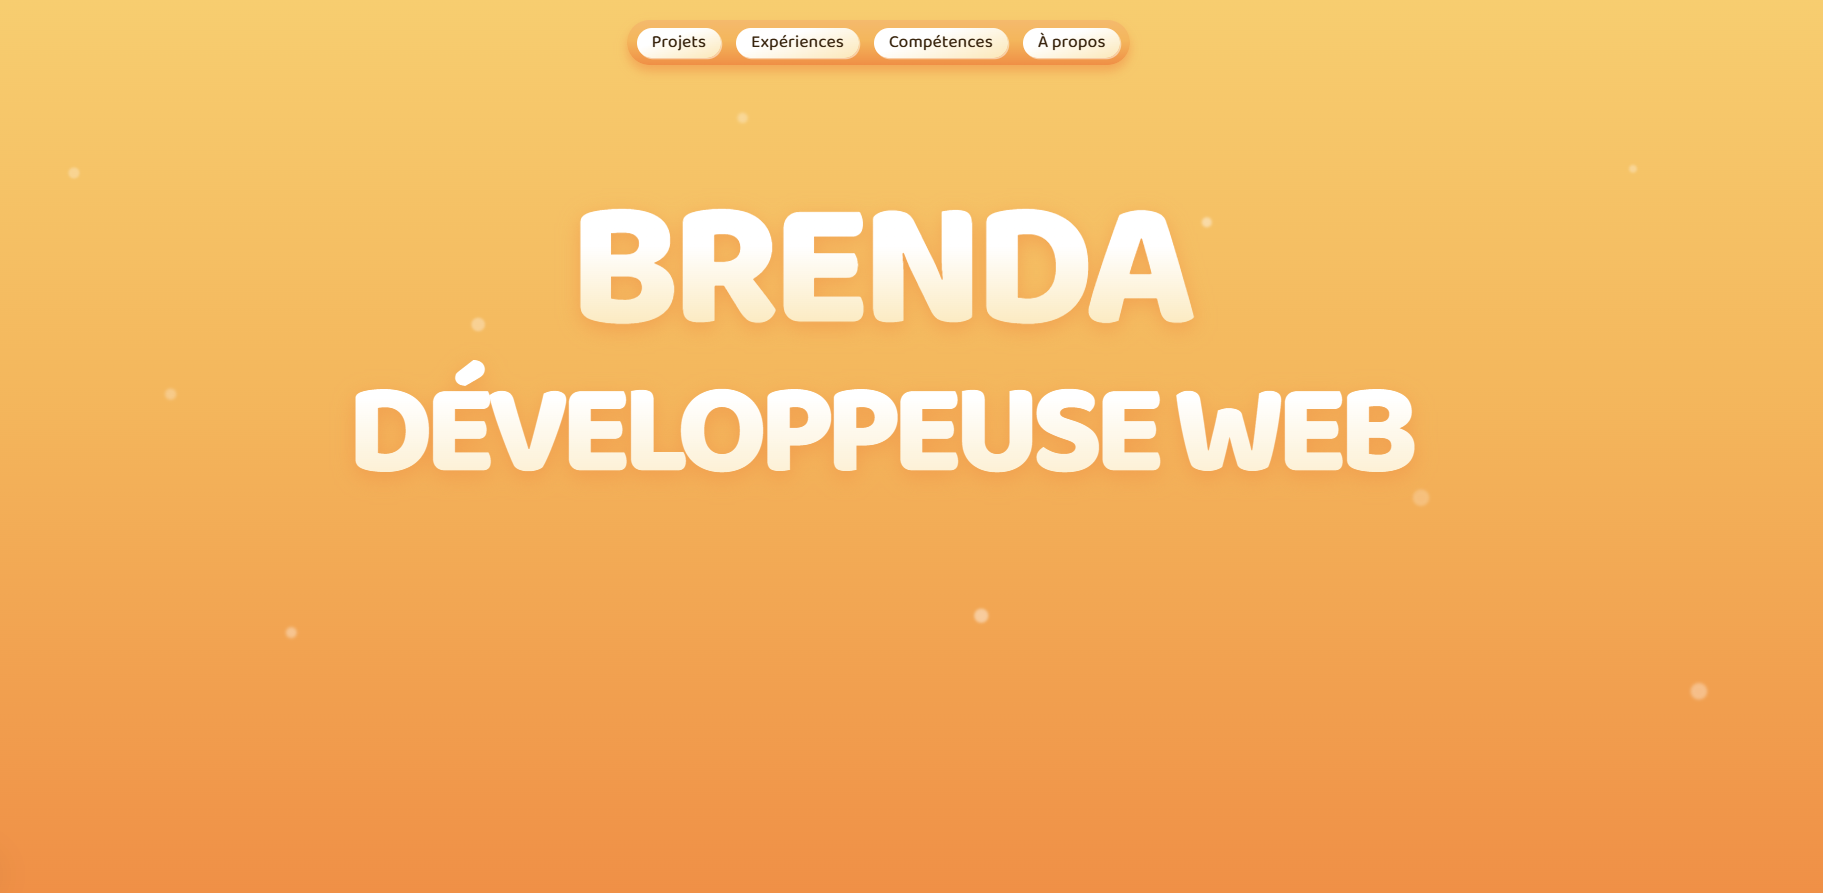
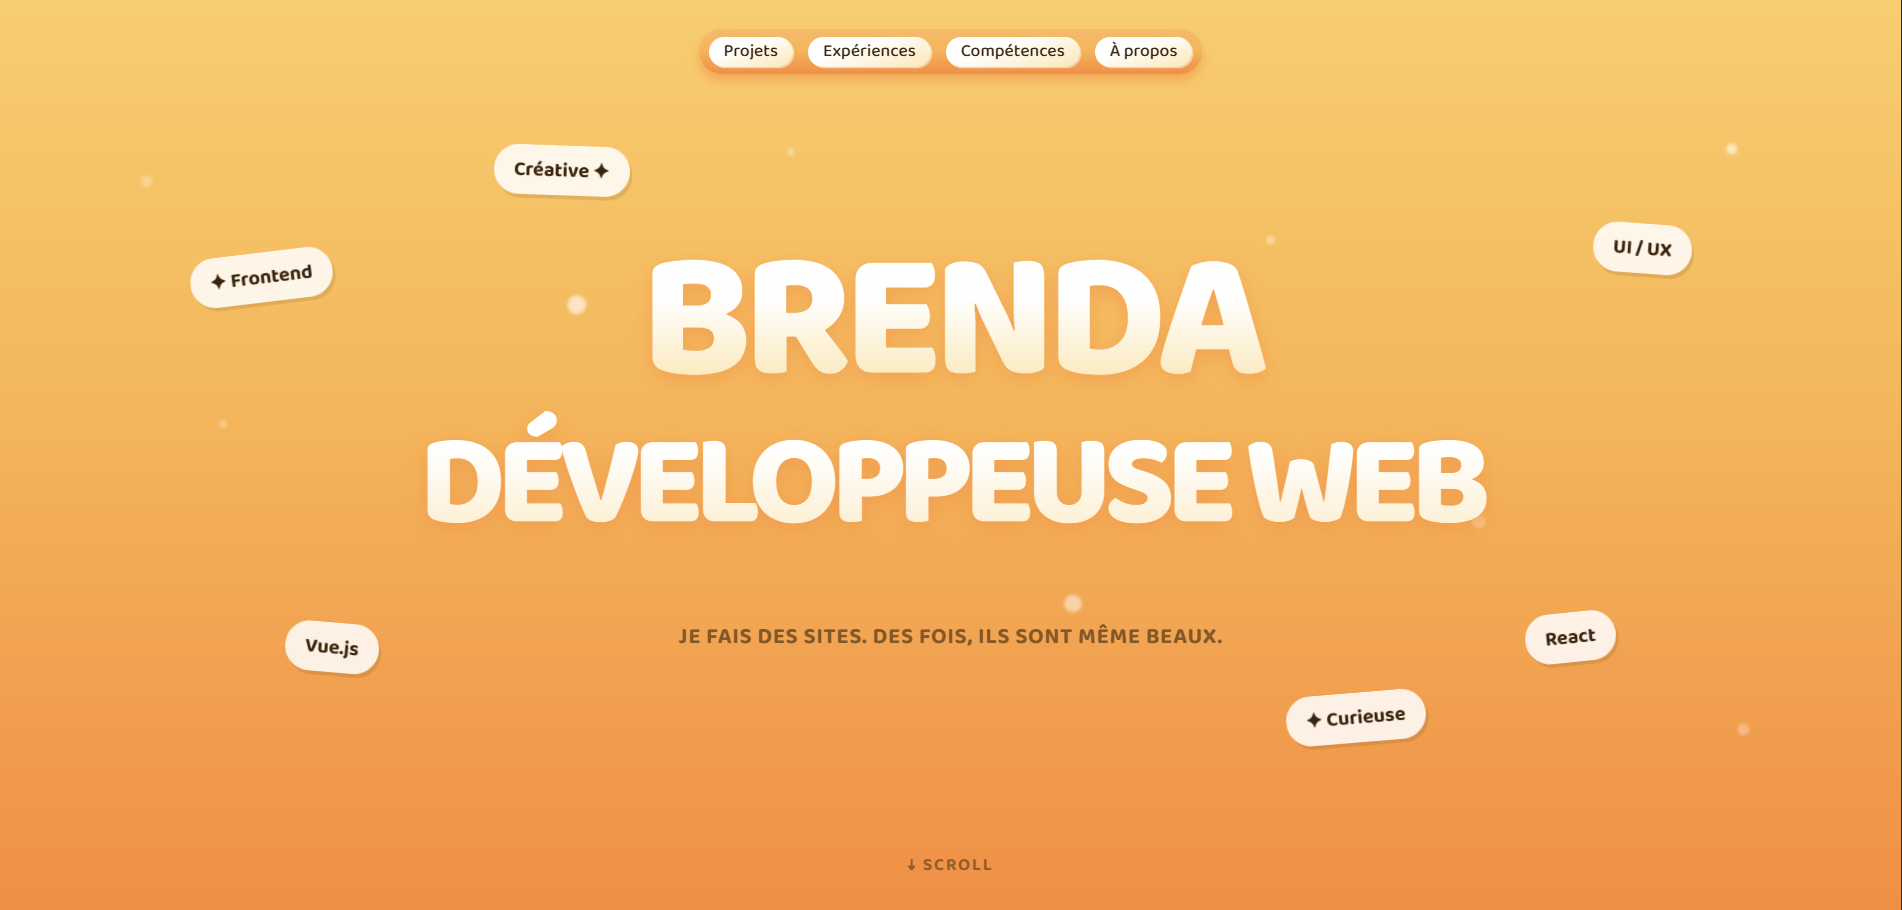
add some screens for portfolio project

diff --git a/app/projects/portfolio-v3/page.tsx b/app/projects/portfolio-v3/page.tsx
@@ -99,7 +99,7 @@ export default function PortfolioV3Page() {
                 <div className="mt-10 grid gap-5 md:grid-cols-2">
                     <SurfaceCard>
                         <Image
-                            src="/Image.jpg"
+                            src="/projects/portfolio/Home.png"
                             alt="Maquette Figma du Portfolio V3"
                             width={1920}
                             height={1080}
@@ -211,9 +211,9 @@ export default function PortfolioV3Page() {
 
                 <ProjectCarousel
                     screens={[
-                        { image: "/Image.jpg", title: "Expérience", },
-                        { image: "/Image.jpg", title: "Projets", },
-                        { image: "/Image.jpg", title: "Compétences", }, ]
+                        { image: "/projects/portfolio/A_Propos.png", title: "Expérience", },
+                        { image: "/projects/portfolio/Projets.png", title: "Projets", },
+                        { image: "/projects/portfolio/Competences.png", title: "Compétences", }, ]
                     } />
             </section>
 
